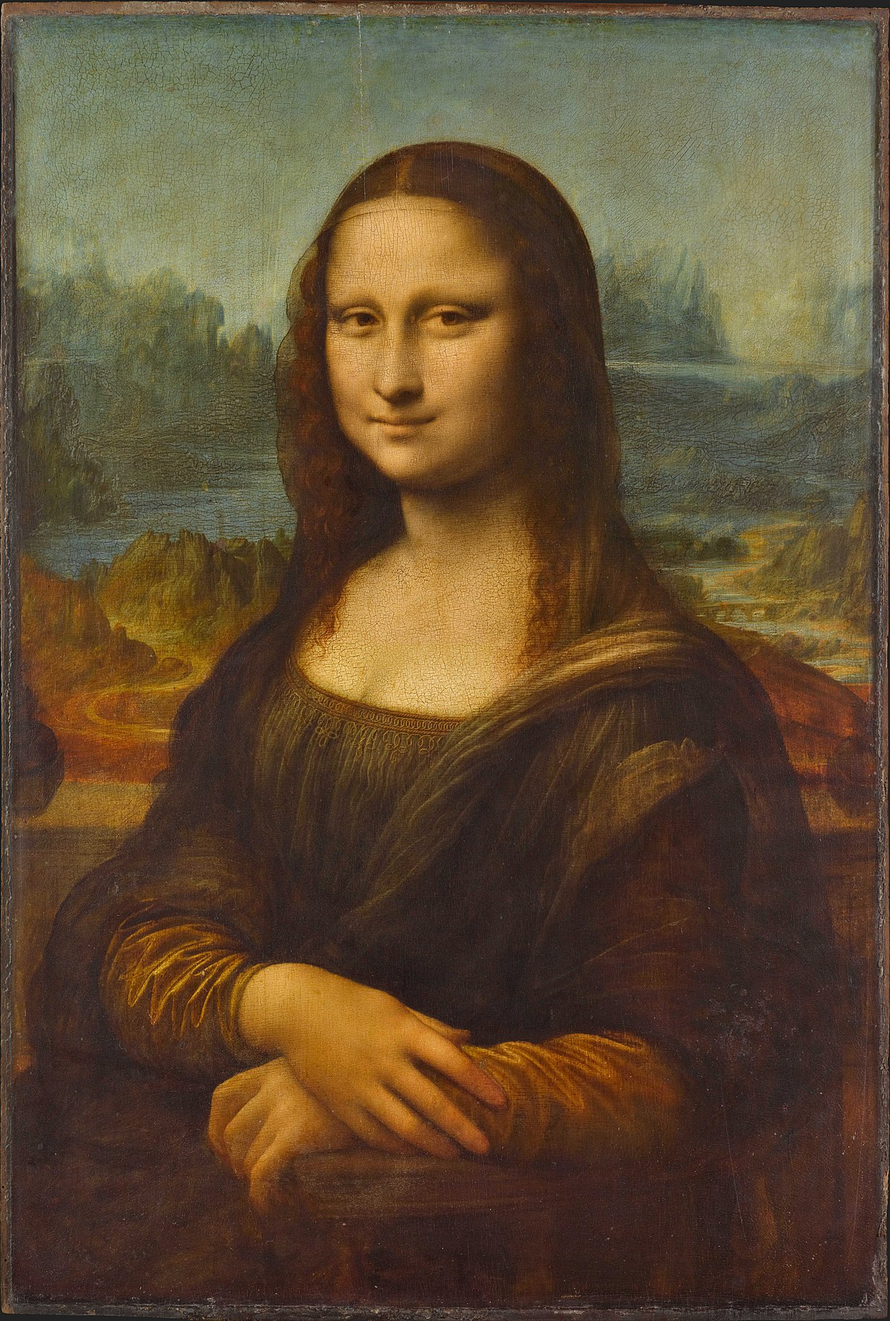
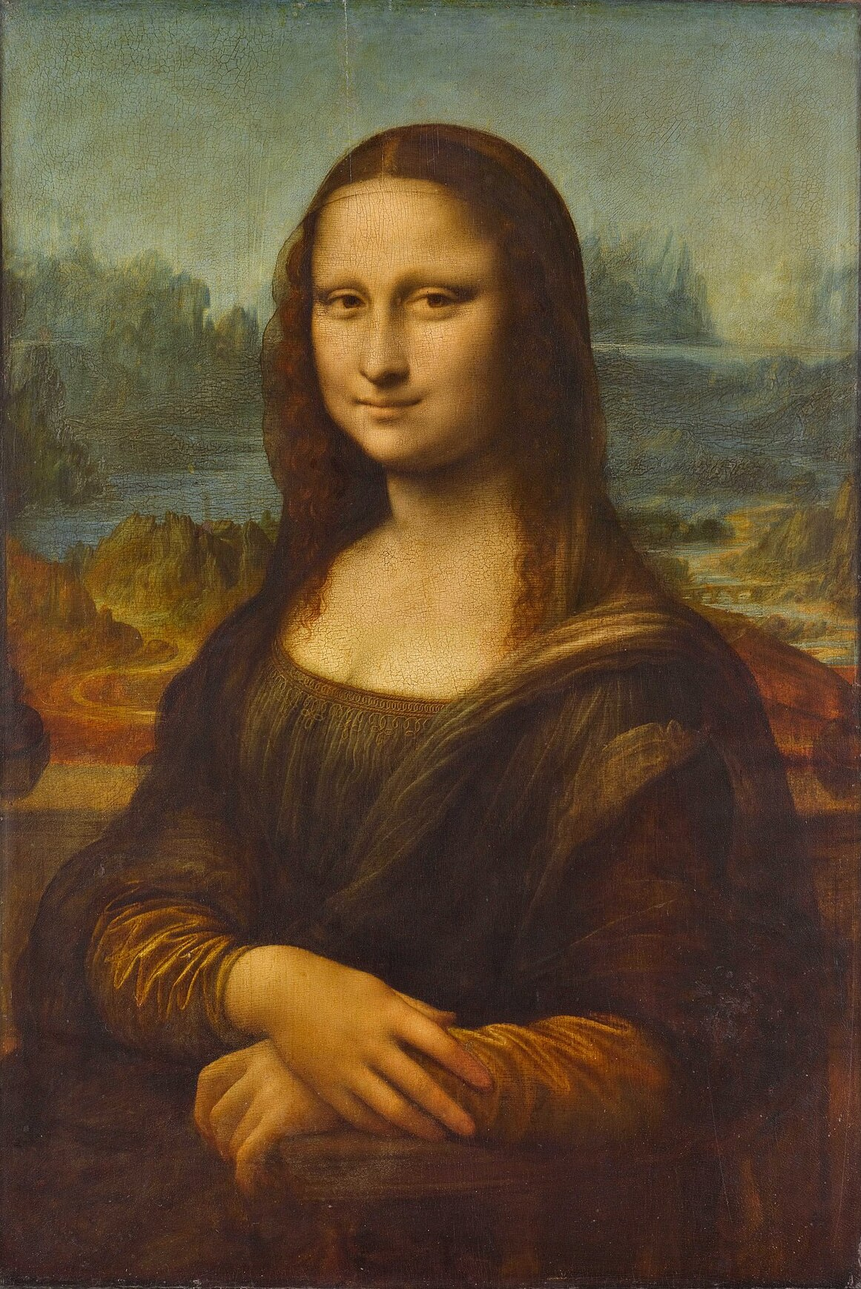
Update responsive design for smaller screens

diff --git a/script.js b/script.js
@@ -5,7 +5,7 @@ document.addEventListener('DOMContentLoaded', function() {
     function updateInteraction() {
         var width = window.innerWidth || document.documentElement.clientWidth || document.body.clientWidth;
 
-        if (width <= 768) { // Threshold for smaller screens
+        if (width <= 1000) { // Threshold for smaller screens
             label.innerHTML = "Tap Mona";
             monaLisa.ontouchstart = function() {
                 monaLisa.src = 'mona-lisa-1.jpeg'; // Change image on touch start

diff --git a/style.css b/style.css
@@ -19,8 +19,9 @@ body {
     padding: 5px;
 }
 #mona-lisa {
-    max-width: 90%;  /* Adjust the percentage as needed */
-    max-height: 70vh; /* Adjust the height as needed */
+    width: 80vw;  /* Adjust the width as needed */
+    height: auto; /* Maintain the aspect ratio */
+    max-height: 70vh; /* Adjust the max height as needed */
     object-fit: contain;
 }
 #label {
